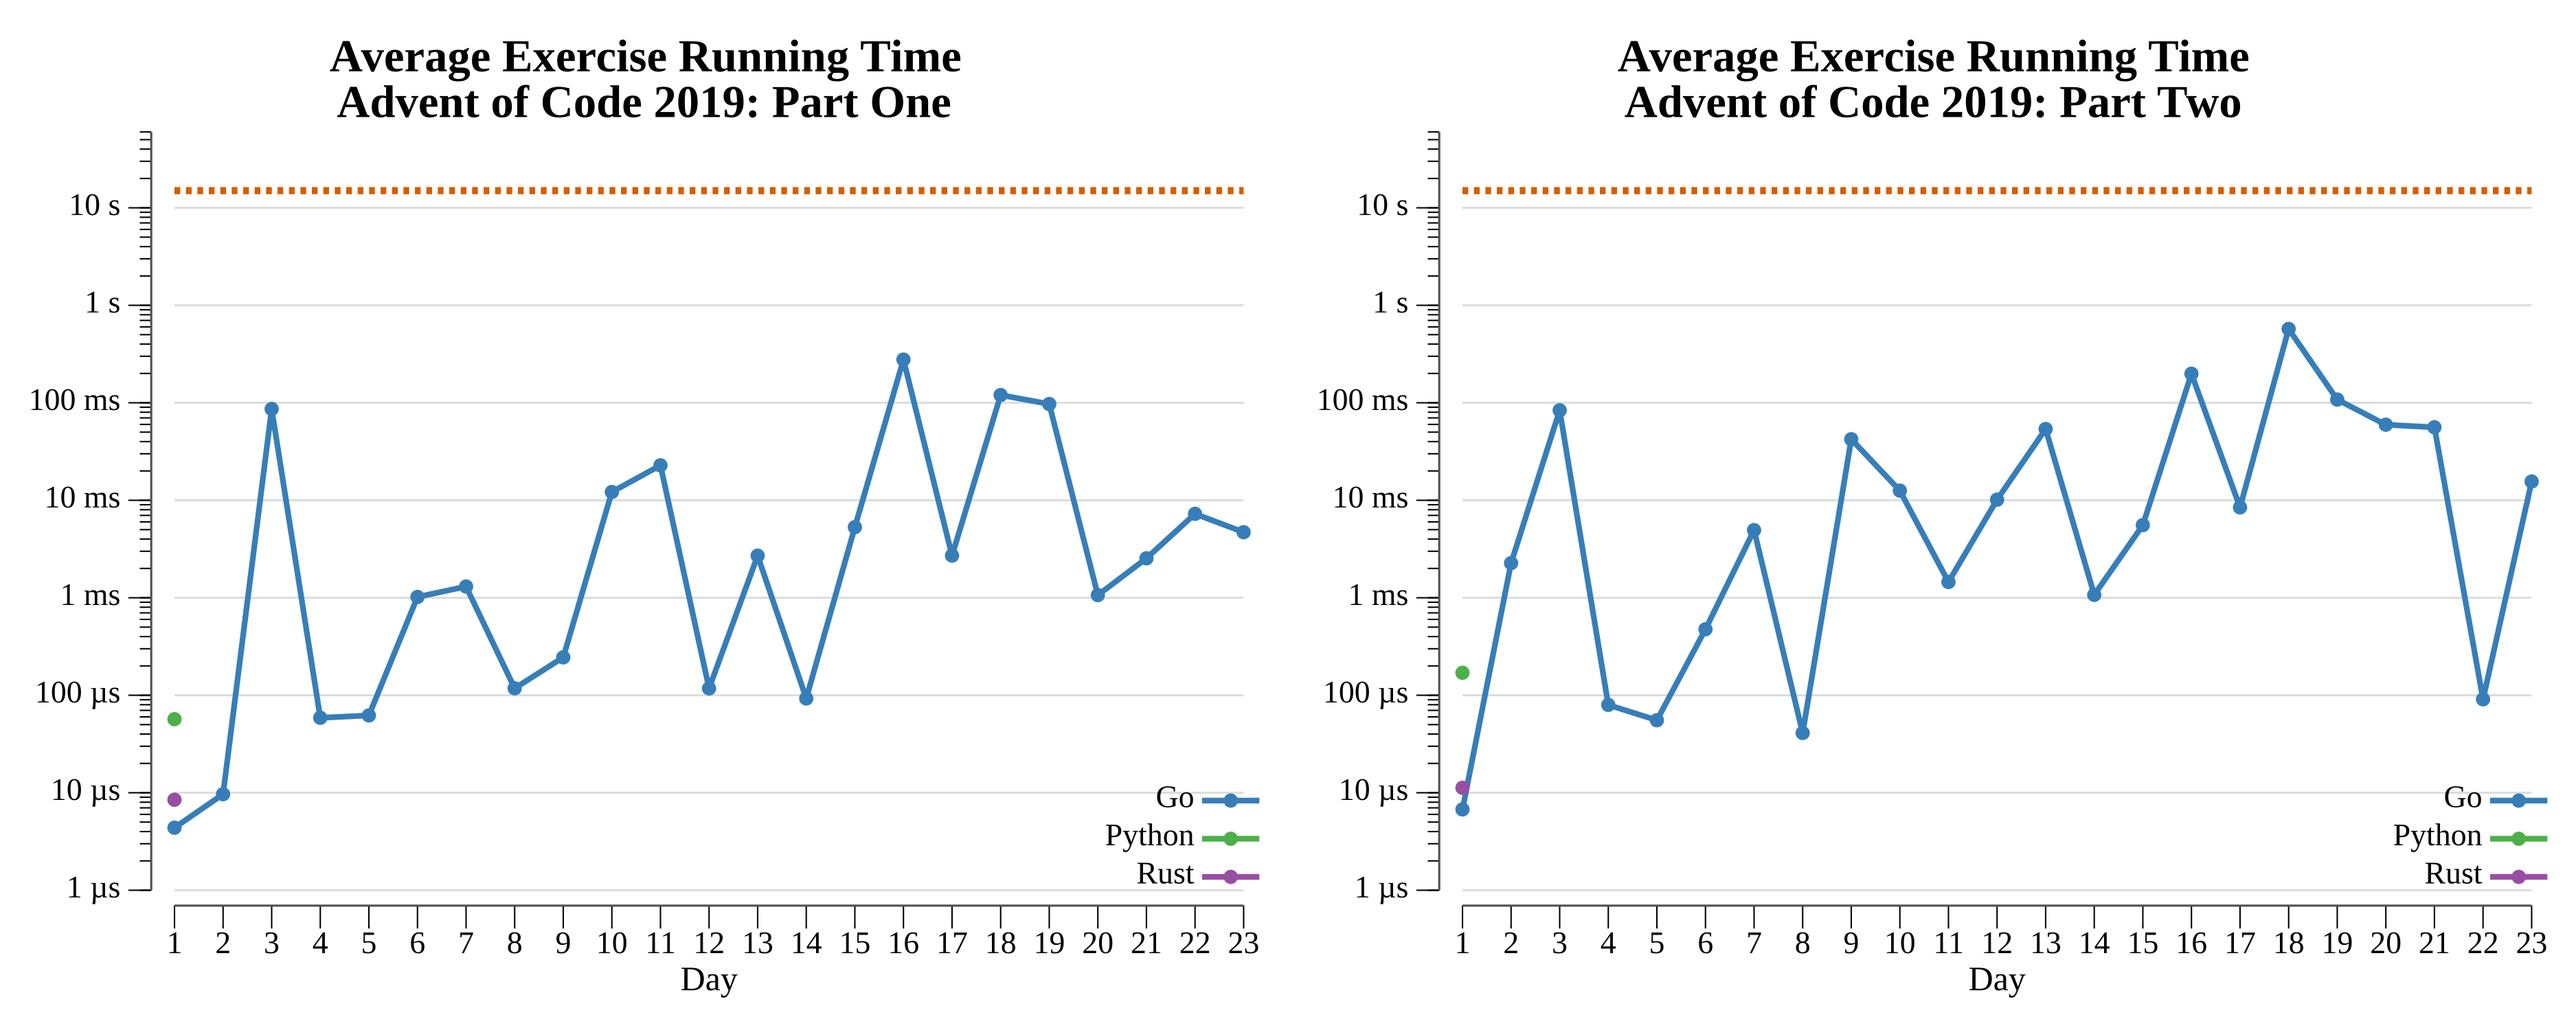
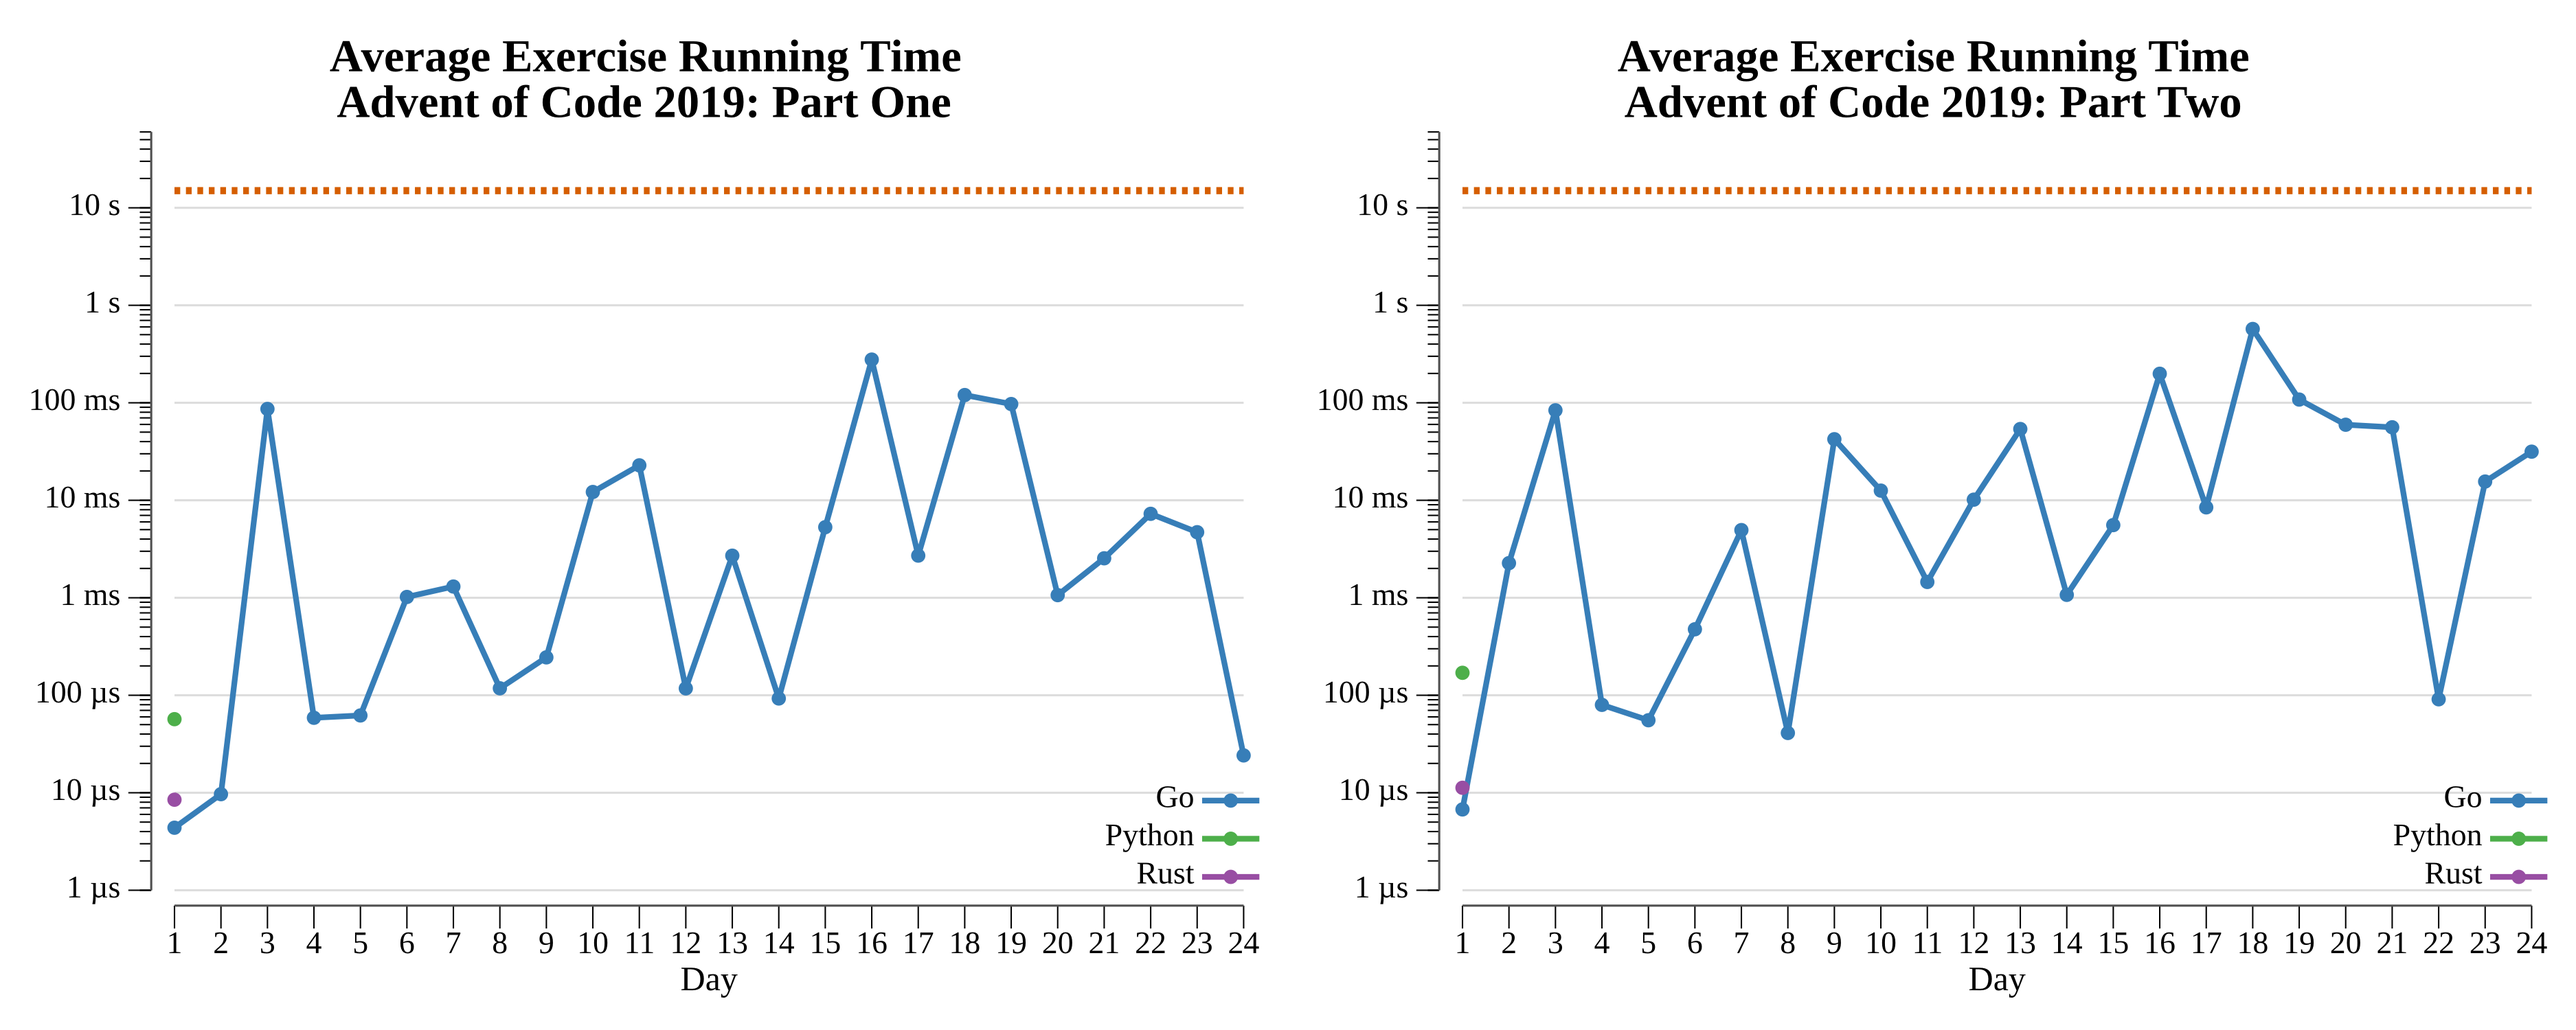
solve 2019 day 24 in go

diff --git a/exercises/2019/24-planetOfDiscord/go/exercise.go b/exercises/2019/24-planetOfDiscord/go/exercise.go
@@ -1,0 +1,235 @@
+package exercises
+
+import (
+	"strings"
+
+	"github.com/asphaltbuffet/advent-of-code/internal/common"
+)
+
+// Exercise for Advent of Code 2019 day 24.
+type Exercise struct {
+	common.BaseExercise
+}
+
+// parseGrid reads a 5x5 bug grid and returns a uint32 bitmask.
+// Bit i (row*5+col) is set if that tile is a bug (#).
+func parseGrid(instr string) uint32 {
+	var state uint32
+	i := 0
+	for _, ch := range strings.TrimSpace(instr) {
+		switch ch {
+		case '#':
+			state |= 1 << i
+			i++
+		case '.':
+			i++
+		}
+		// skip newlines and other chars
+	}
+	return state
+}
+
+// stepGrid advances the cellular automaton one minute.
+//
+//nolint:gocognit // neighbor-counting requires many boundary checks
+func stepGrid(state uint32) uint32 {
+	var next uint32
+	for row := range 5 {
+		for col := range 5 {
+			i := row*5 + col
+			neighbors := 0
+			if row > 0 && (state>>(i-5))&1 == 1 {
+				neighbors++
+			}
+			if row < 4 && (state>>(i+5))&1 == 1 {
+				neighbors++
+			}
+			if col > 0 && (state>>(i-1))&1 == 1 {
+				neighbors++
+			}
+			if col < 4 && (state>>(i+1))&1 == 1 {
+				neighbors++
+			}
+			bug := (state>>i)&1 == 1
+			if bug && neighbors == 1 {
+				next |= 1 << i
+			} else if !bug && (neighbors == 1 || neighbors == 2) {
+				next |= 1 << i
+			}
+		}
+	}
+	return next
+}
+
+// One returns the answer to the first part of the exercise.
+// Simulate until a layout repeats; return its biodiversity rating.
+func (e Exercise) One(instr string) (any, error) {
+	state := parseGrid(instr)
+	seen := map[uint32]bool{}
+	for {
+		if seen[state] {
+			return int(state), nil
+		}
+		seen[state] = true
+		state = stepGrid(state)
+	}
+}
+
+// countNeighborsRecursive counts bugs adjacent to tile (row,col) at the given level.
+// levels is the current map of level->bitmask.
+//
+//nolint:gocognit // recursive Plutonian grid requires many per-edge cases
+func countNeighborsRecursive(levels map[int]uint32, level, row, col int) int {
+	count := 0
+
+	type dir struct{ dr, dc int }
+	dirs := []dir{{-1, 0}, {1, 0}, {0, -1}, {0, 1}}
+
+	for _, d := range dirs {
+		nr, nc := row+d.dr, col+d.dc
+
+		switch {
+		case nr == 2 && nc == 2:
+			// stepping into center -> recurse into child level
+			child := levels[level+1]
+			switch {
+			case d.dr == 1: // came from above center, child row 0
+				for c := range 5 {
+					if (child>>(0*5+c))&1 == 1 {
+						count++
+					}
+				}
+			case d.dr == -1: // came from below center, child row 4
+				for c := range 5 {
+					if (child>>(4*5+c))&1 == 1 {
+						count++
+					}
+				}
+			case d.dc == 1: // came from left of center, child col 0
+				for r := range 5 {
+					if (child>>(r*5+0))&1 == 1 {
+						count++
+					}
+				}
+			case d.dc == -1: // came from right of center, child col 4
+				for r := range 5 {
+					if (child>>(r*5+4))&1 == 1 {
+						count++
+					}
+				}
+			}
+		case nr < 0:
+			// top border -> parent tile (1,2) = index 7
+			parent := levels[level-1]
+			if (parent>>7)&1 == 1 {
+				count++
+			}
+		case nr > 4:
+			// bottom border -> parent tile (3,2) = index 17
+			parent := levels[level-1]
+			if (parent>>17)&1 == 1 {
+				count++
+			}
+		case nc < 0:
+			// left border -> parent tile (2,1) = index 11
+			parent := levels[level-1]
+			if (parent>>11)&1 == 1 {
+				count++
+			}
+		case nc > 4:
+			// right border -> parent tile (2,3) = index 13
+			parent := levels[level-1]
+			if (parent>>13)&1 == 1 {
+				count++
+			}
+		default:
+			// normal same-level neighbor
+			same := levels[level]
+			if (same>>(nr*5+nc))&1 == 1 {
+				count++
+			}
+		}
+	}
+	return count
+}
+
+// stepRecursive advances the recursive multi-level grid one step.
+//
+//nolint:gocognit // level-range expansion and per-cell rules require multiple conditions
+func stepRecursive(levels map[int]uint32) map[int]uint32 {
+	// determine range of active levels
+	minLevel, maxLevel := 0, 0
+	first := true
+	for lv := range levels {
+		if levels[lv] == 0 {
+			continue
+		}
+		if first {
+			minLevel, maxLevel = lv, lv
+			first = false
+		} else {
+			if lv < minLevel {
+				minLevel = lv
+			}
+			if lv > maxLevel {
+				maxLevel = lv
+			}
+		}
+	}
+	// expand range by one to allow growth
+	minLevel--
+	maxLevel++
+
+	next := map[int]uint32{}
+	for lv := minLevel; lv <= maxLevel; lv++ {
+		var mask uint32
+		for row := range 5 {
+			for col := range 5 {
+				if row == 2 && col == 2 {
+					continue // center is always empty
+				}
+				i := row*5 + col
+				n := countNeighborsRecursive(levels, lv, row, col)
+				bug := (levels[lv]>>i)&1 == 1
+				if bug && n == 1 {
+					mask |= 1 << i
+				} else if !bug && (n == 1 || n == 2) {
+					mask |= 1 << i
+				}
+			}
+		}
+		if mask != 0 {
+			next[lv] = mask
+		}
+	}
+	return next
+}
+
+// Two returns the answer to the second part of the exercise.
+// Simulate the recursive Plutonian grid for 200 minutes (10 for example input containing '?').
+func (e Exercise) Two(instr string) (any, error) {
+	steps := 200
+	if strings.Contains(instr, "?") {
+		steps = 10
+	}
+
+	// parse initial grid at level 0; treat '?' as '.'
+	cleaned := strings.ReplaceAll(instr, "?", ".")
+	initial := parseGrid(cleaned)
+	initial &^= 1 << 12 // ensure center is clear
+
+	levels := map[int]uint32{0: initial}
+
+	for range steps {
+		levels = stepRecursive(levels)
+	}
+
+	total := 0
+	for _, mask := range levels {
+		for mask != 0 {
+			total += int(mask & 1)
+			mask >>= 1
+		}
+	}
+	return total, nil
+}

diff --git a/exercises/2019/24-planetOfDiscord/README.md b/exercises/2019/24-planetOfDiscord/README.md
@@ -1,0 +1,41 @@
+# [Day 24: Planet of Discord](https://adventofcode.com/2019/day/24)
+
+<!-- These are helper text to make formatting the yearly readme consistent and easier...
+
+[Day 24: Planet of Discord][rm24]
+[Go][go24]
+[Python][py24]
+
+[rm24]: 24-planetOfDiscord/README.md
+[go24]: 24-planetOfDiscord/go
+[py24]: 24-planetOfDiscord/py
+
+-->
+
+## Notes
+
+The puzzle simulates a 5×5 grid of bugs following Conway's Game of Life rules on a single planet, and then extends the idea to an infinite stack of recursively nested grids.
+
+**Part One** — the grid is encoded as a `uint32` bitmask (bit `row*5+col` = 1 means bug). Each step applies the standard life rules: a bug survives with exactly 1 neighbor, an empty tile becomes a bug with 1 or 2 neighbors. The state space is tiny (25 bits), so a `map[uint32]bool` seen-set detects the first repeated layout in microseconds. The biodiversity rating is the bitmask value itself.
+
+**Part Two** — the center tile (position 12) is replaced by a portal that leads to an inner level, while grid edges wrap to the corresponding edge tile of the outer level. The full recursive structure is stored as `map[int]uint32`, keyed by level (negative = outer, positive = inner). Each step computes neighbor counts per the Plutonian adjacency rules — crossing an outer edge reads one parent tile; crossing into the center reads an entire row or column of the child level. The simulation runs 200 steps (10 if the input contains `?`, which is the example marker). If the input contained `?`, it is treated as `.` for grid parsing.
+
+## Go
+
+```text
+────────────────────────────────────────
+─    2019 Day 24: Planet of Discord    ─
+────────────────────────────────────────
+
+Testing (Go)…
+1.0:  PASS            48.534µs
+2.0:  PASS           114.196µs
+
+Solving (Go)…
+1.0:  PASS             0.021ms
+2.0:  PASS            29.877ms
+```
+
+## Run Times
+
+![Run Times](run-times.png)

diff --git a/exercises/2019/README.md b/exercises/2019/README.md
@@ -29,7 +29,7 @@
 | [Day 21: Springdroid Adventure][rm21]             |  ★ ★  | [Go][go21] |
 | [Day 22: Slam Shuffle][rm22]                      |  ★ ★  | [Go][go22] |
 | [Day 23: Category Six][rm23]                      |  ★ ★  | [Go][go23] |
-| 24                                                |  ☆ ☆  |                            |
+| [Day 24: Planet of Discord][rm24]                 |  ★ ★  | [Go][go24] |
 | 25                                                |  ☆ ☆  |                            |
 
 
@@ -115,3 +115,6 @@ Day       Time    Rank  Score       Time    Rank  Score
 
 [rm23]: 23-categorySix/README.md
 [go23]: 23-categorySix/go/exercise.go
+
+[rm24]: 24-planetOfDiscord/README.md
+[go24]: 24-planetOfDiscord/go/exercise.go
